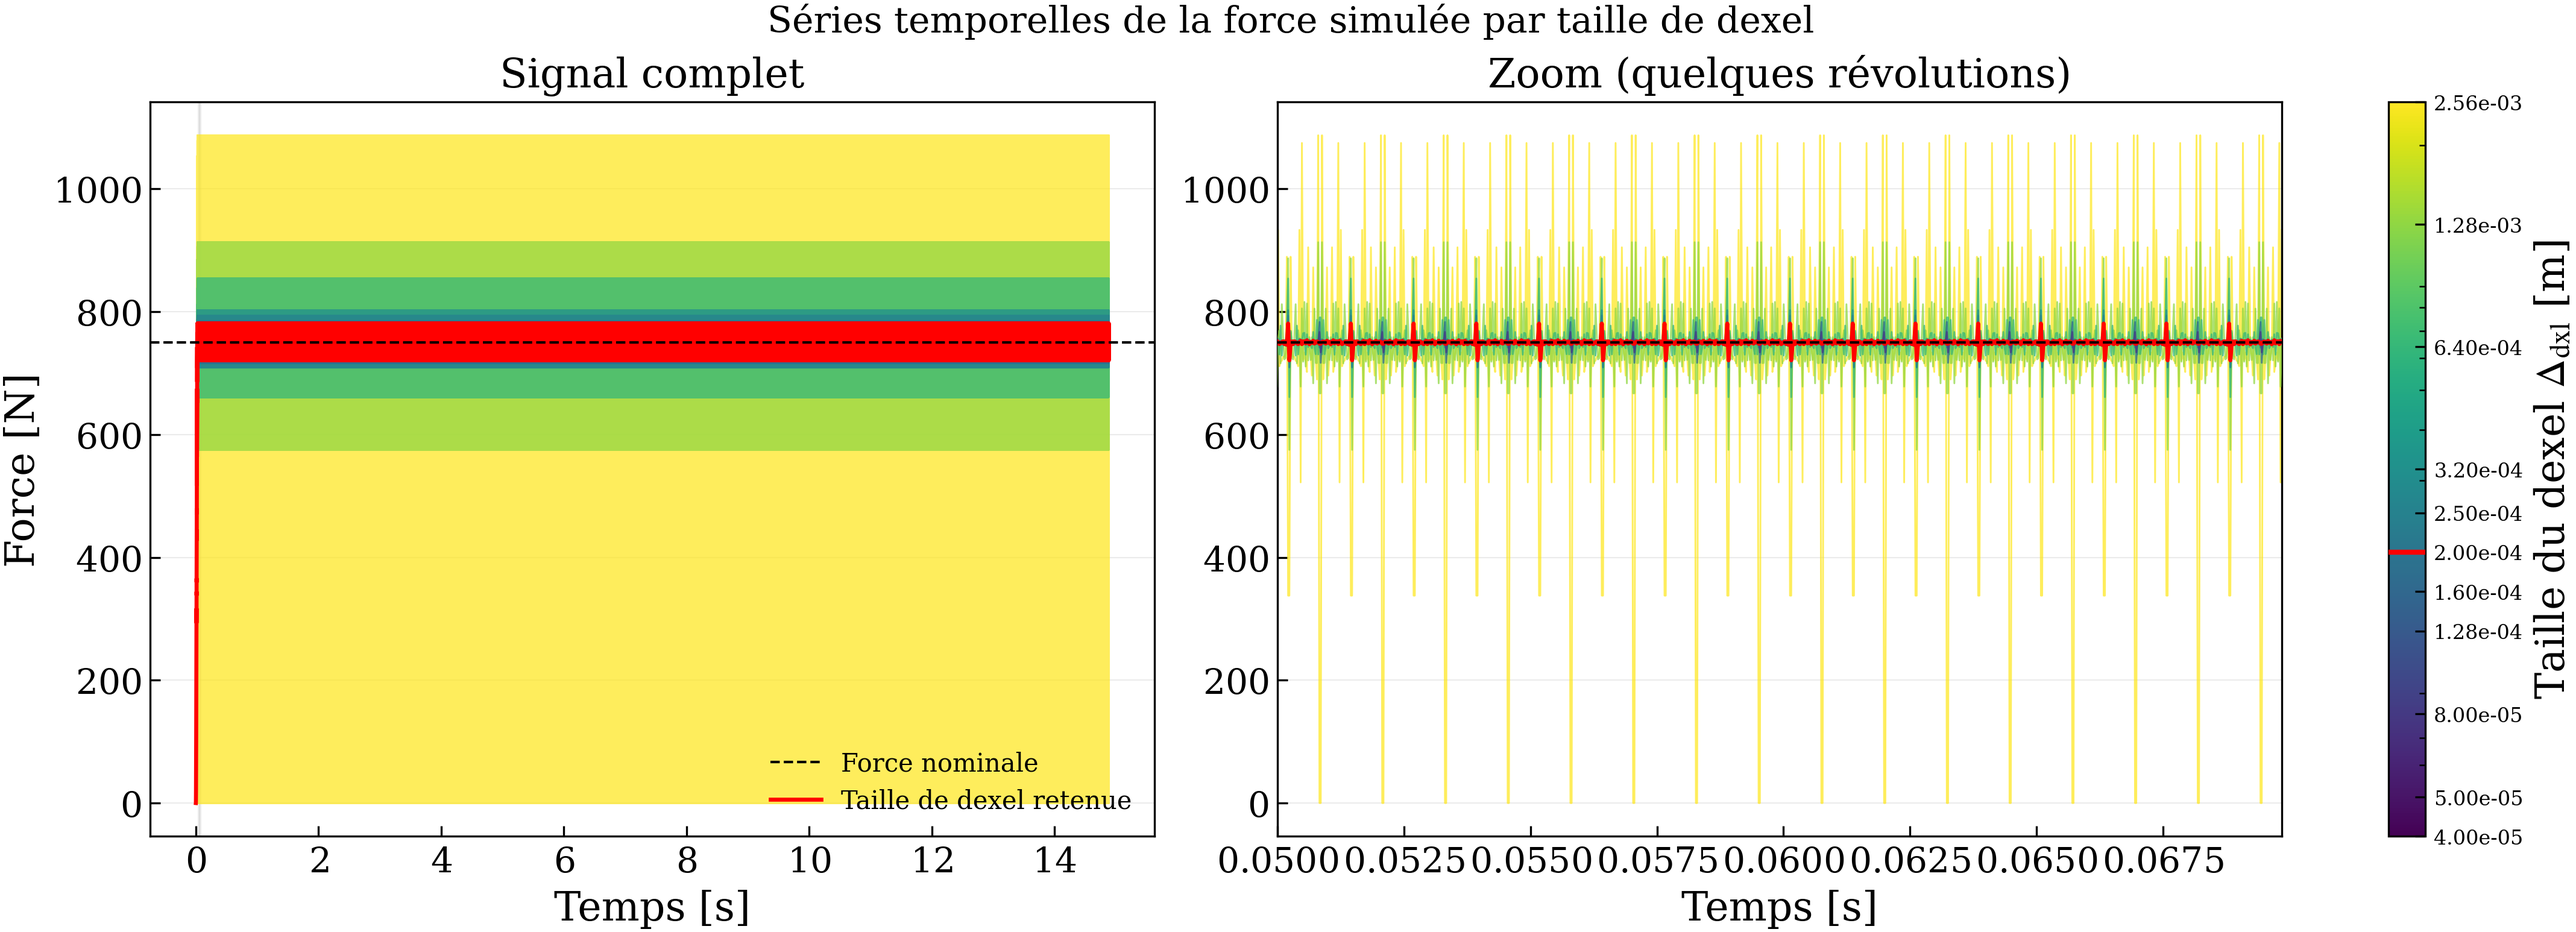
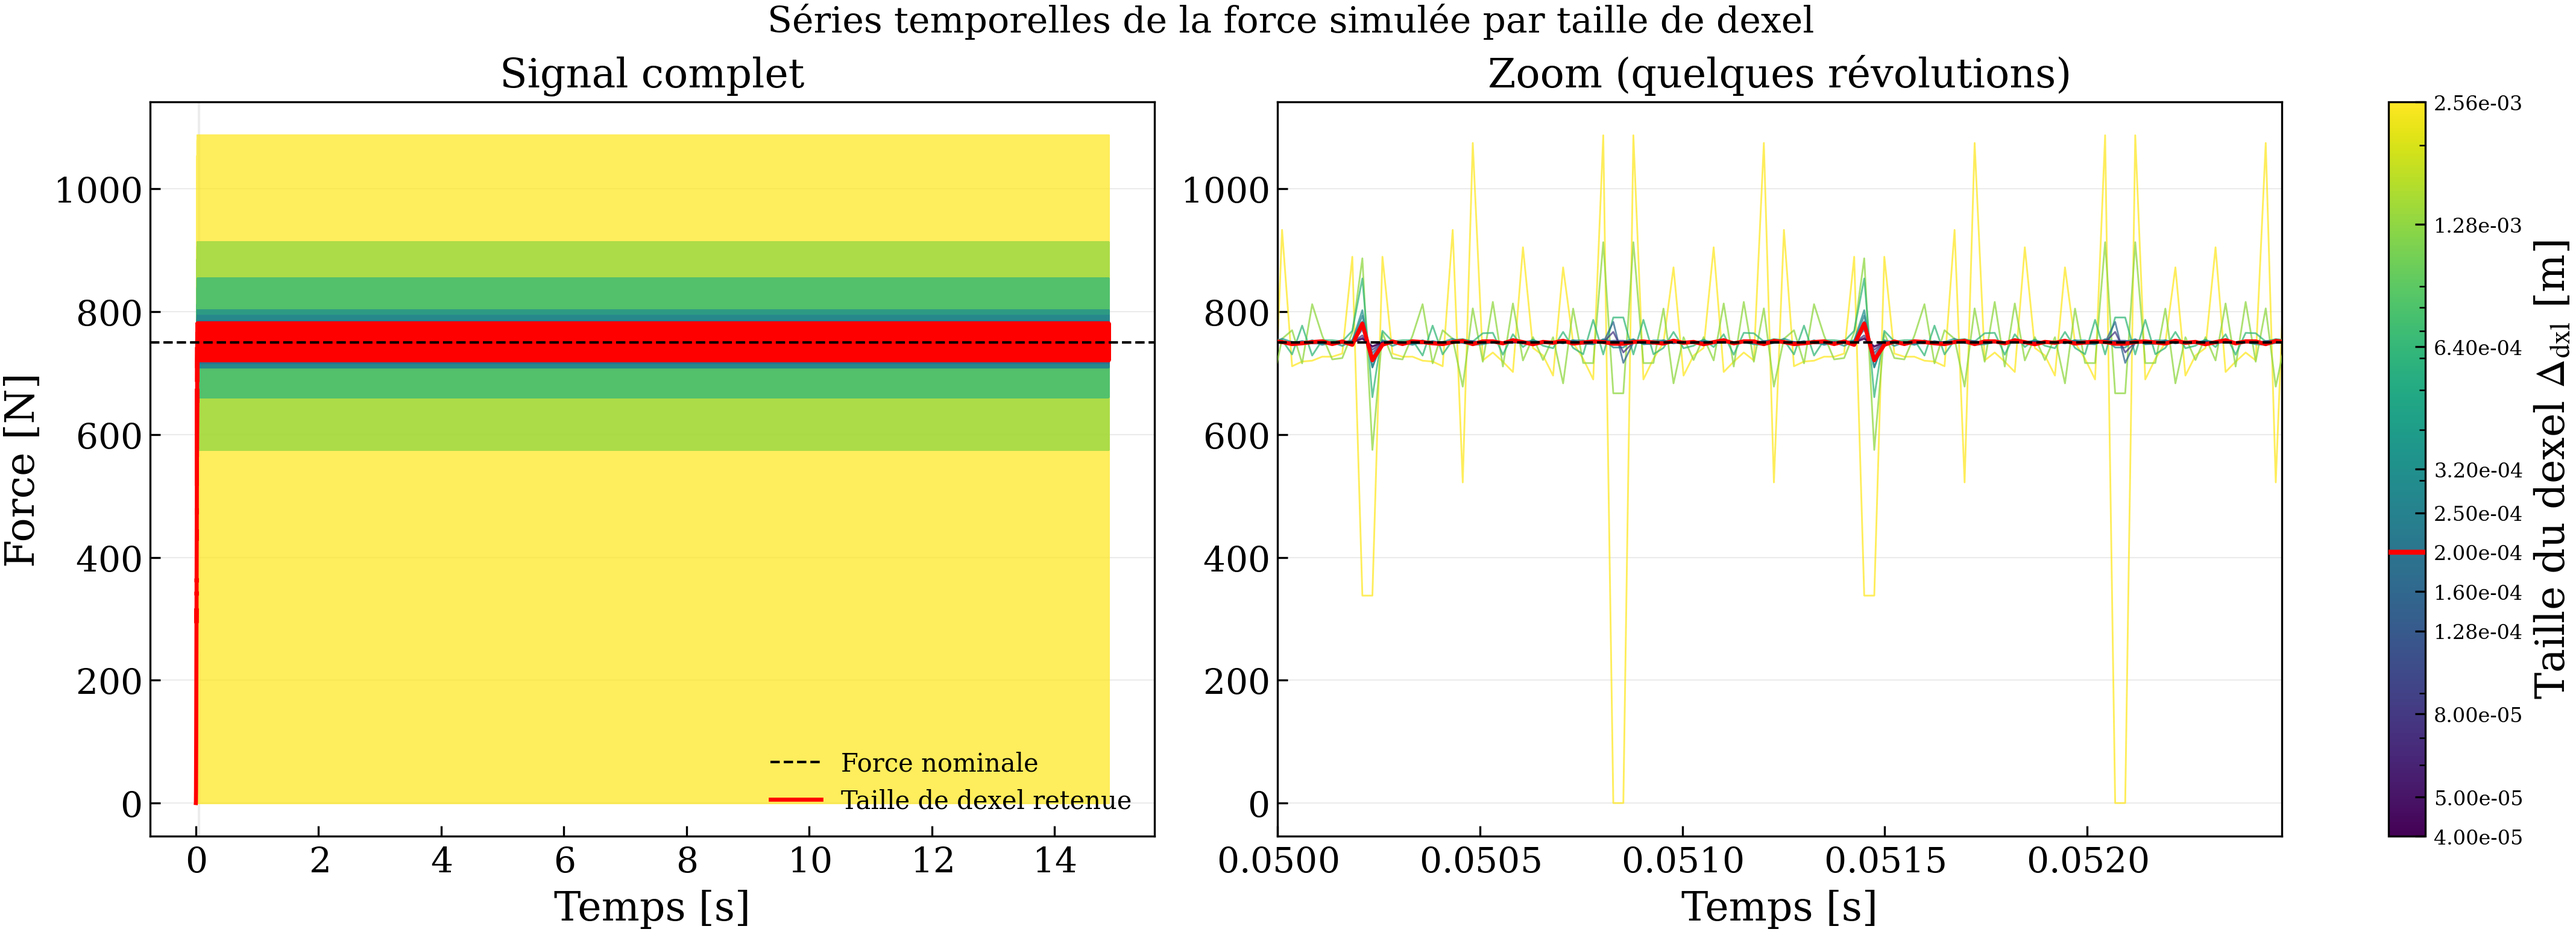
Update DOE path and adjust zoom duration in Etapa_0.py; update fig_time_series.png

Changed region(s): [[0.498, 0.1552, 0.9026, 0.8072], [0.5291, 0.9004, 0.8715, 0.9314], [0.6225, 0.7141, 0.6536, 0.7762]]

diff --git a/Convergency_Simulation/Etapa_0.py b/Convergency_Simulation/Etapa_0.py
@@ -755,7 +755,12 @@ def main():
                         help="Show Figure 3 after the analysis")
     args = parser.parse_args()
 
-    DOE_NAME = "0_Cinematique\\DOE_Dexels_Cinematique"   # nombre de la carpeta de salida  (dir_ref2exe)
+    # DOE_NAME = "0_Cinematique\\DOE_Dexels_Cinematique"
+    DOE_NAME = (
+        r"D:\Thesis\03-Code_Storage\02-Altintlas_Nessy2m_Storage\Chatter-Criteria"
+        r"\CAMP10_Chatter_detection_Methodes\Convergency_Simulation\0_Cinematique"
+        r"\DOE_Dexels_Cinematique"
+    )   # apunta al checkout principal, mismo patron que Etapa_1.py -- sin duplicar datos DOE por worktree
 
     # Idioma del texto de las figuras (titulo, ejes, leyenda): "EN" | "FR" | "both"
     FIGURE_LANGUAGE = "FR"
@@ -766,7 +771,7 @@ def main():
 
     # Duracion del panel de zoom de fig_time_series, en revoluciones del husillo
     # (empieza en t_start, para mostrar regimen ya establecido).
-    ZOOM_N_REVOLUTIONS = 4
+    ZOOM_N_REVOLUTIONS = 0.5
 
     # ===========================================================================
     # CONSTANTES DE CORTE  (editar aqui antes de ejecutar)
